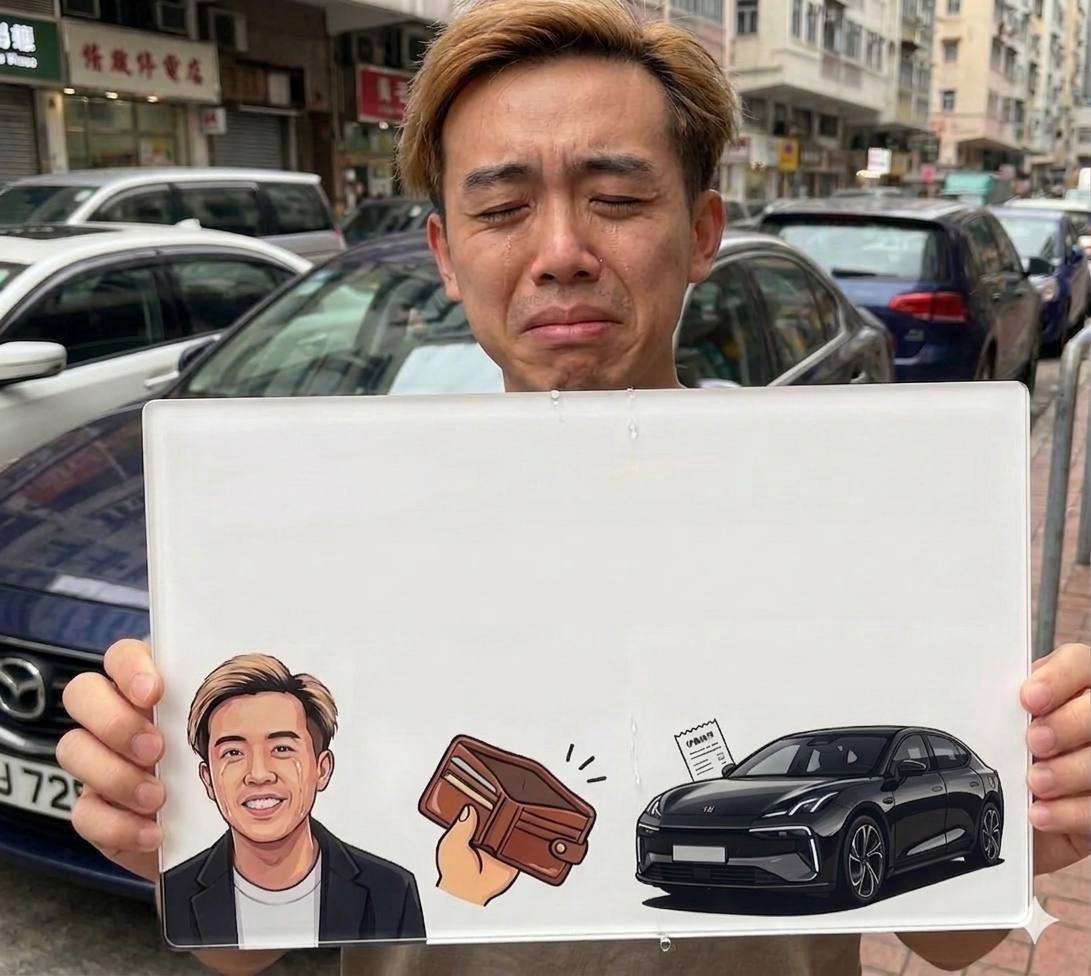
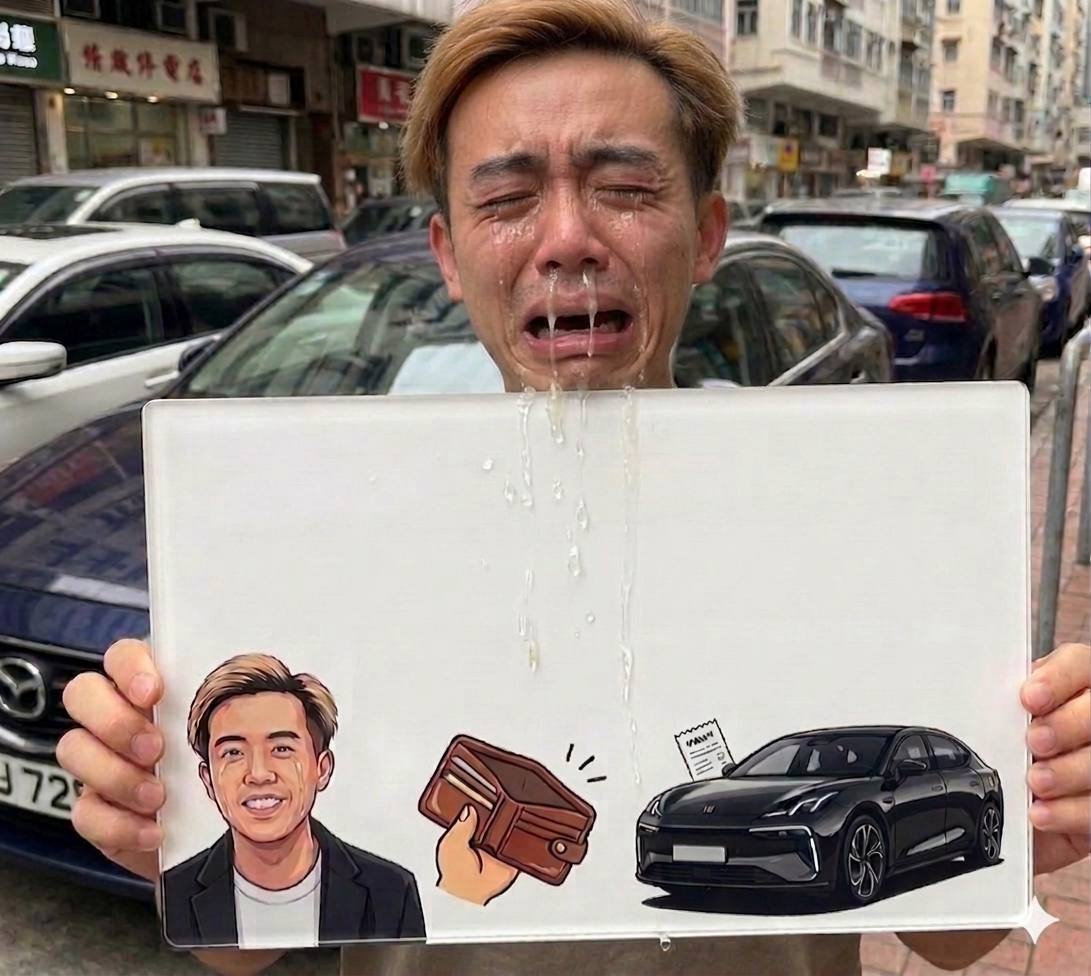
Replace bg.jpg with new meme image

diff --git a/style.css b/style.css
@@ -10,7 +10,7 @@ body {
 .container { 
     text-align: center; 
     position: relative;
-    background-image: url('gp.jpg');
+    background-image: url('bg.jpg');
     background-size: contain;
     background-repeat: no-repeat;
     background-position: center;
